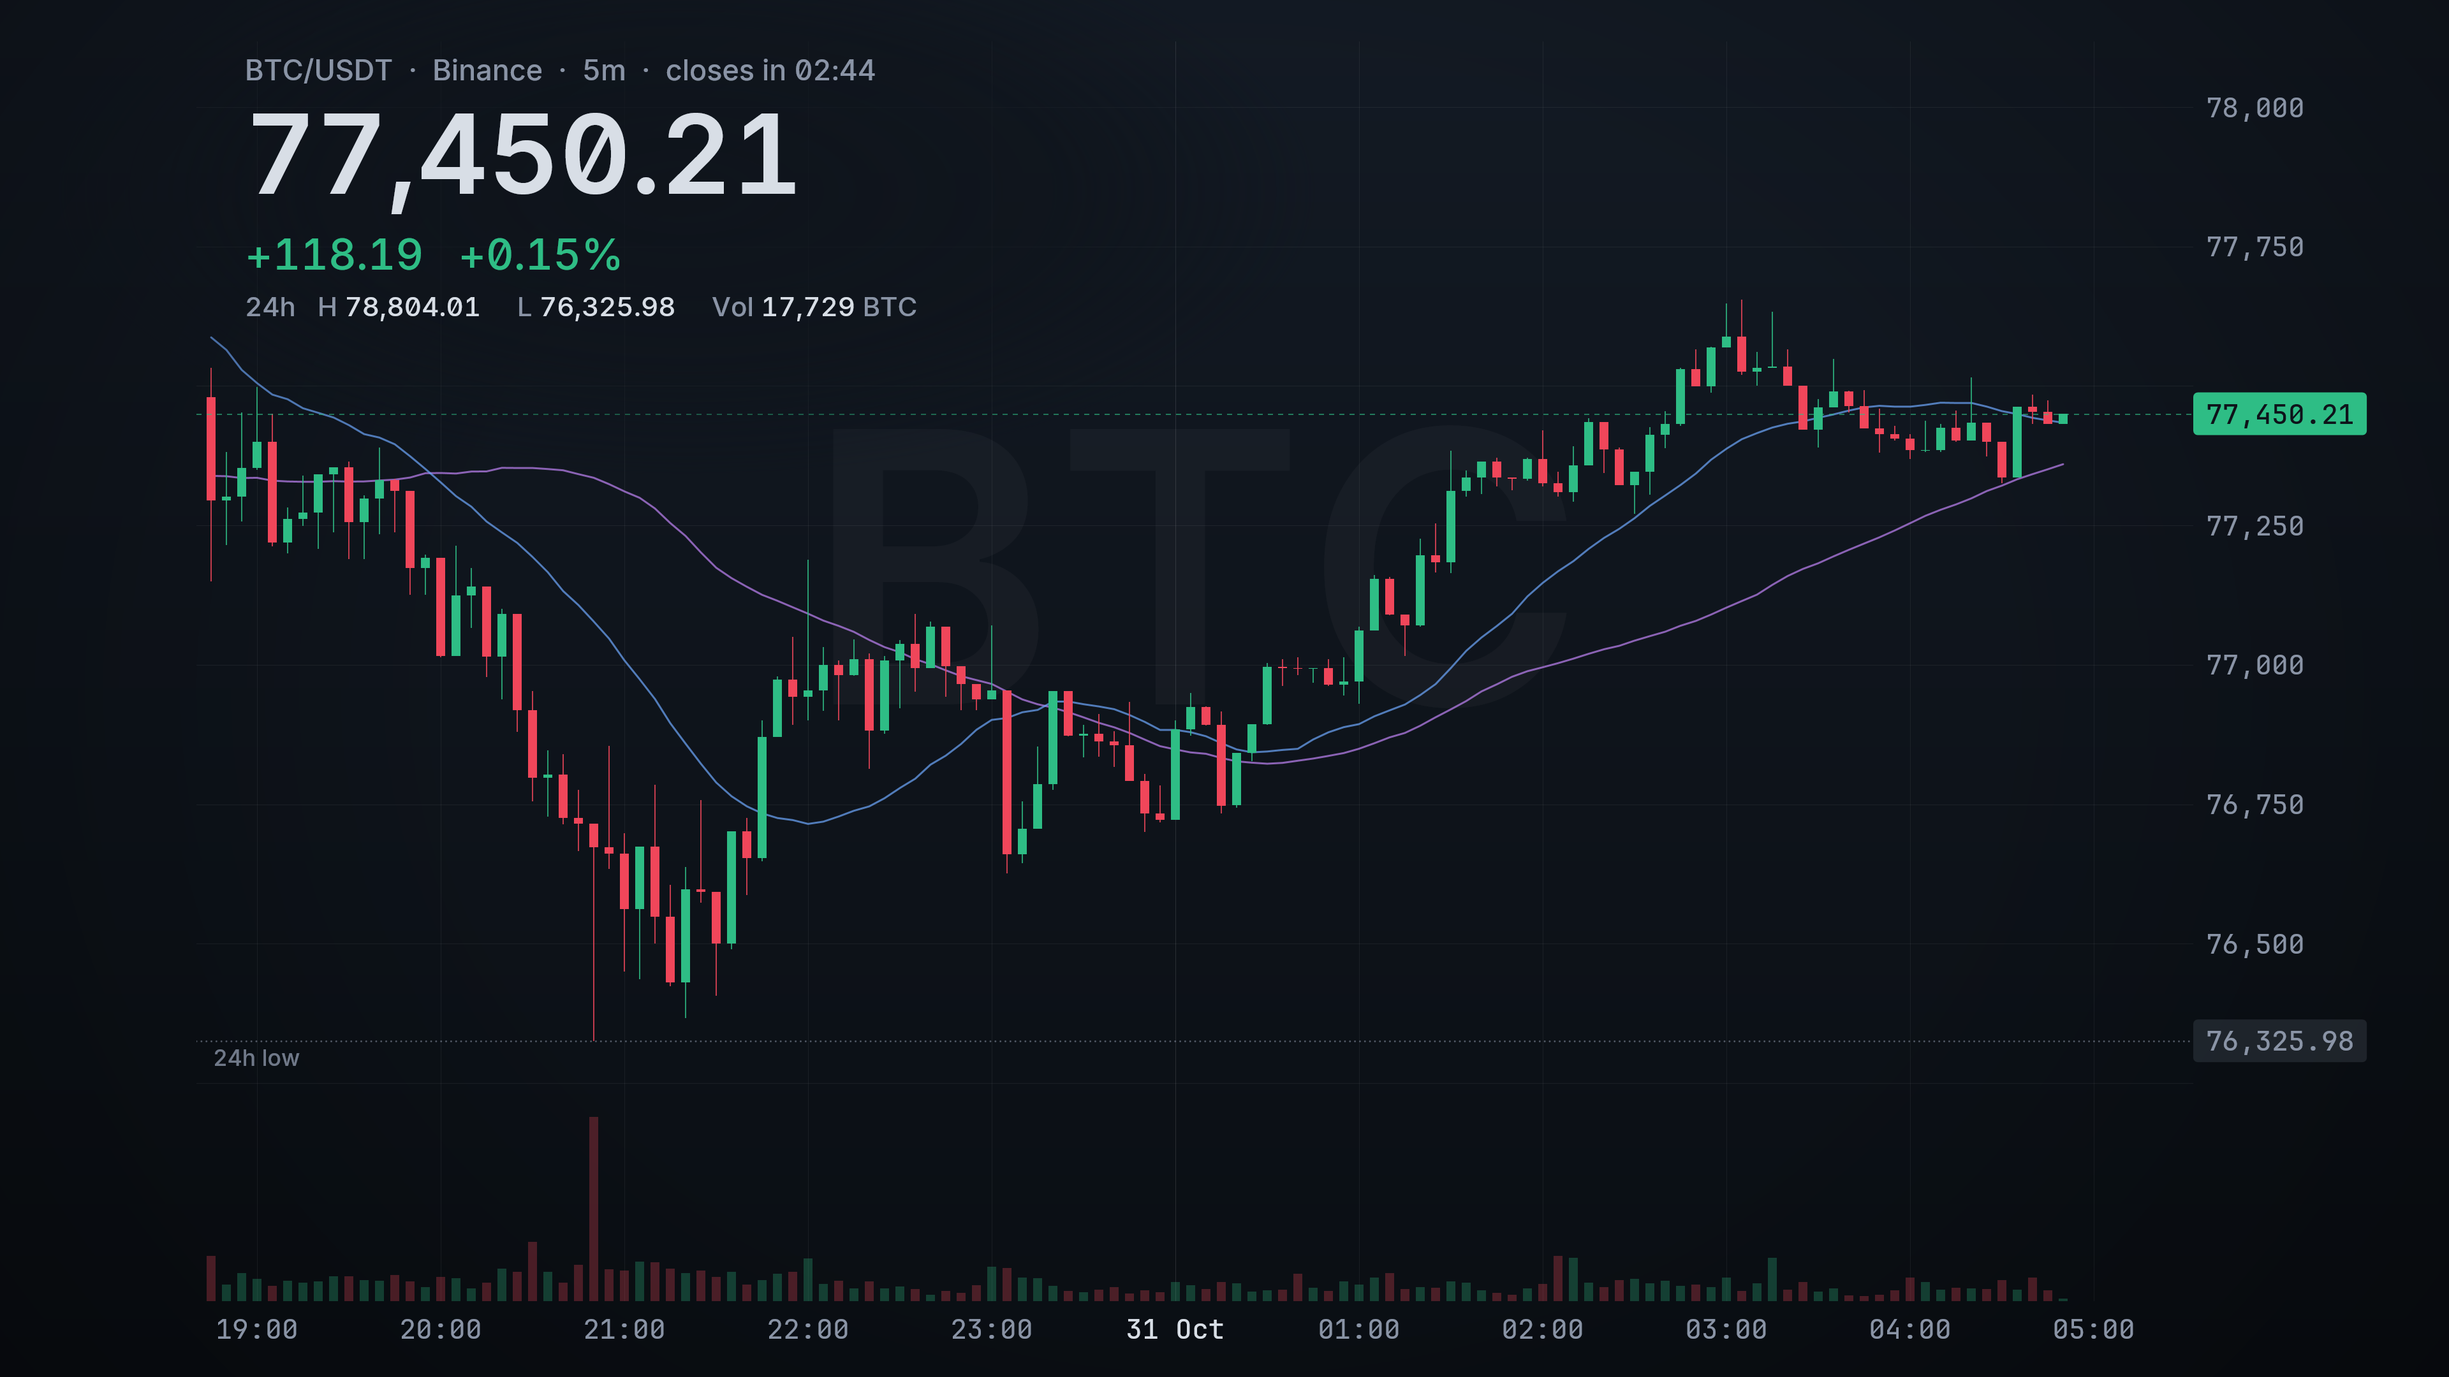
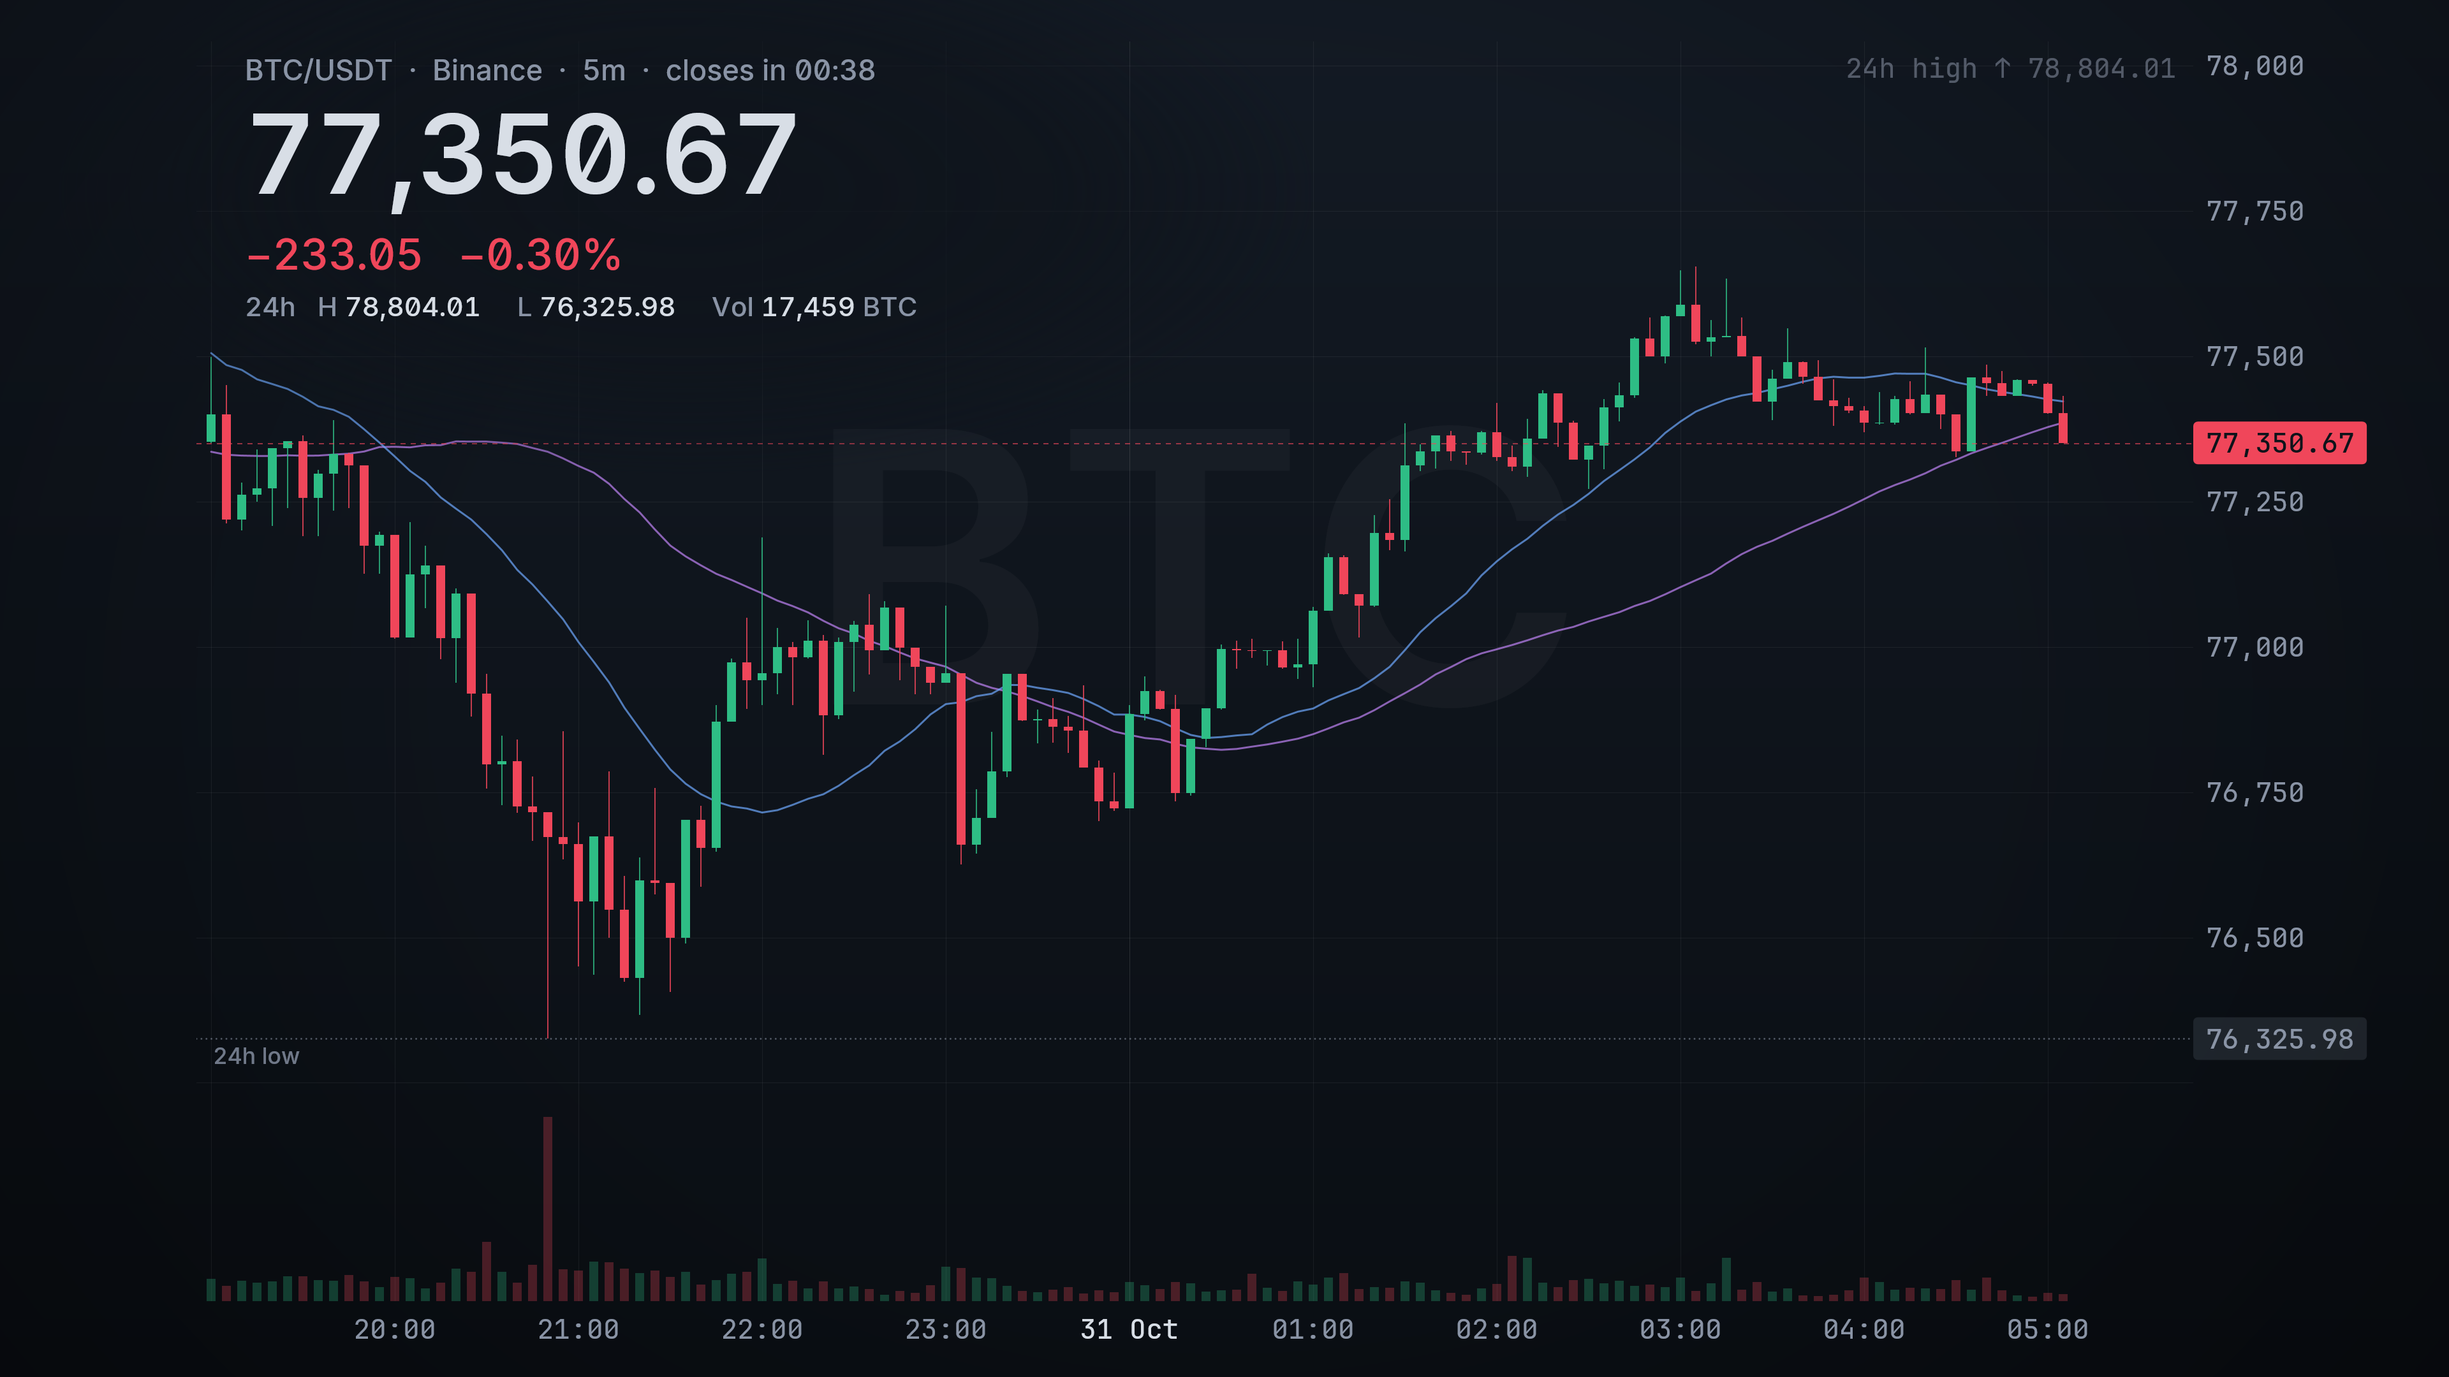
feat: 24h high/low off the price scale as edge markers, the scale is not stretched (D-11) (#4)

diff --git a/src/Chart.Render.D2D/Scene.cs b/src/Chart.Render.D2D/Scene.cs
@@ -1,0 +1,177 @@
+using BitcoinWallpaper.Chart.Core.Candles;
+using BitcoinWallpaper.Chart.Core.Indicators;
+using BitcoinWallpaper.Chart.Core.Layout;
+
+namespace BitcoinWallpaper.Chart.Render.D2D;
+
+public enum DayExtreme
+{
+    High,
+    Low,
+}
+
+/// <summary>A 24h high or low beyond the visible price range, shown as a text marker at the plot's top (high) or
+/// bottom (low) edge instead of a dotted line (D-11). Bounds are in physical px.</summary>
+public sealed record DayRangeMarker(DayExtreme Extreme, decimal Price, string Text, RectPx Bounds);
+
+public static class DayRangeMarkers
+{
+    /// <summary>The edge markers of a frame: one for each 24h extreme outside the visible price range, none for an
+    /// extreme the scale shows (that one is drawn as a dotted line). The price scale is never stretched for them.</summary>
+    public static IReadOnlyList<DayRangeMarker> For(ChartFrame frame) => new Scene(frame).EdgeMarkers;
+}
+
+/// <summary>What a frame derives to, computed from the frame alone.</summary>
+internal sealed class Scene
+{
+    private static readonly TimeSpan Interval = TimeSpan.FromMinutes(5);
+
+    public Scene(ChartFrame frame)
+    {
+        ArgumentNullException.ThrowIfNull(frame);
+        Frame = frame;
+        Layout = frame.Layout;
+        Candles = frame.Candles;
+        Last = Candles.Count > 0 ? Candles[^1] : null;
+        Ma20 = MovingAverage.Simple(Candles, 20);
+        Ma50 = MovingAverage.Simple(Candles, 50);
+        DayHighLow = frame.Ticker is { } ticker
+            ? DayStats.HighLowFromTicker(ticker)
+            : Candles.Count > 0 ? DayStats.HighLowFromCandles(Candles, frame.Now) : null;
+
+        Scale = PriceScale.For(Layout, Candles, [Ma20, Ma50]);
+        (PriceStep, PriceLevels) = Ticks.Prices(Scale, Layout.Text.AxisLabelPx * 4.5);
+        TimeTicks = TimeTicksFor(frame);
+        EdgeMarkers = EdgeMarkersFor();
+
+        if (Last is { } last)
+        {
+            var close = last.IsClosed ? NextBoundary(frame.Now) : last.OpenTime + Interval;
+            Countdown = CloseCountdown.Text(close, frame.Now);
+        }
+    }
+
+    public ChartFrame Frame { get; }
+
+    public ChartLayout Layout { get; }
+
+    public IReadOnlyList<Candle> Candles { get; }
+
+    public Candle? Last { get; }
+
+    /// <summary>The base asset of the pair ("BTC" of "BTC/USDT"): the watermark.</summary>
+    public string Base => Frame.Pair.Split('/')[0];
+
+    public IReadOnlyList<decimal?> Ma20 { get; }
+
+    public IReadOnlyList<decimal?> Ma50 { get; }
+
+    public HighLow? DayHighLow { get; }
+
+    public PriceScale Scale { get; }
+
+    public double PriceStep { get; }
+
+    public IReadOnlyList<double> PriceLevels { get; }
+
+    public IReadOnlyList<TimeTick> TimeTicks { get; }
+
+    public IReadOnlyList<DayRangeMarker> EdgeMarkers { get; }
+
+    public string? Countdown { get; }
+
+    /// <summary>JetBrains Mono advances every glyph by 0.6 em, so a marker's width is known without DirectWrite.</summary>
+    public const double MonoAdvance = 0.6;
+
+    /// <summary>JetBrains Mono's line height in em (ascent 1.02 + descent 0.3).</summary>
+    public const double MonoLineHeight = 1.32;
+
+    public double MarkerSize => Layout.Text.AxisLabelPx;
+
+    /// <summary>Whether the 24h extreme lies on the visible price scale (and is drawn as a dotted line).</summary>
+    public bool OnScale(decimal price)
+    {
+        var y = Scale.Y(price);
+        return y >= Layout.Plot.Y && y <= Layout.Plot.Bottom;
+    }
+
+    private List<DayRangeMarker> EdgeMarkersFor()
+    {
+        var markers = new List<DayRangeMarker>();
+        if (DayHighLow is not { } hl || Candles.Count == 0)
+        {
+            return markers;
+        }
+
+        var plot = Layout.Plot;
+        var size = MarkerSize;
+        var pad = 0.6 * size;
+        var height = Math.Ceiling(MonoLineHeight * size);
+        foreach (var (extreme, price, text) in new[]
+                 {
+                     (DayExtreme.High, hl.High, $"24h high ↑ {ChartText.Price(hl.High)}"),
+                     (DayExtreme.Low, hl.Low, $"24h low ↓ {ChartText.Price(hl.Low)}"),
+                 })
+        {
+            if (OnScale(price))
+            {
+                continue;
+            }
+
+            var width = Math.Ceiling(text.Length * MonoAdvance * size);
+            var y = extreme == DayExtreme.High ? plot.Y + (0.5 * pad) : plot.Bottom - (0.5 * pad) - height;
+            var bounds = new RectPx(plot.X + pad, y, width, height);
+            if (Intersects(bounds, Layout.Headline))
+            {
+                // The headline holds that corner (16:9: top-left); the marker goes to the other side.
+                bounds = bounds with { X = plot.Right - pad - width };
+            }
+
+            markers.Add(new DayRangeMarker(extreme, price, text, bounds));
+        }
+
+        return markers;
+    }
+
+    private static bool Intersects(RectPx a, RectPx b) =>
+        a.X < b.Right && b.X < a.Right && a.Y < b.Bottom && b.Y < a.Bottom;
+
+    private static DateTimeOffset NextBoundary(DateTimeOffset now)
+    {
+        var ticks = now.UtcTicks - (now.UtcTicks % Interval.Ticks);
+        return new DateTimeOffset(ticks, TimeSpan.Zero) + Interval;
+    }
+
+    // A tick on every candle (and every future slot right of the newest) whose local time is a whole interval.
+    private static List<TimeTick> TimeTicksFor(ChartFrame frame)
+    {
+        var l = frame.Layout;
+        var ticks = new List<TimeTick>();
+        if (frame.Candles.Count == 0)
+        {
+            return ticks;
+        }
+
+        var minutes = D2D.Ticks.TimeIntervalMinutes(l.CandlePitchPx, 6.6 * l.Text.AxisLabelPx);
+        var last = frame.Candles[^1].OpenTime;
+        for (var i = l.FirstDrawnIndex; i < frame.Candles.Count + l.RightOffsetBars; i++)
+        {
+            var open = i < frame.Candles.Count ? frame.Candles[i].OpenTime : last + ((i - frame.Candles.Count + 1) * Interval);
+            var local = TimeZoneInfo.ConvertTime(open, frame.TimeZone);
+            var minuteOfDay = (local.Hour * 60) + local.Minute;
+            if (minuteOfDay % minutes == 0)
+            {
+                ticks.Add(new TimeTick(l.CandleCenterX(i), local, minuteOfDay == 0));
+            }
+        }
+
+        return ticks;
+    }
+}
+
+internal readonly record struct TimeTick(double X, DateTimeOffset Local, bool IsDay);
+
+internal static class ChartText
+{
+    public static string Price(decimal price) => price.ToString("#,##0.00", System.Globalization.CultureInfo.InvariantCulture);
+}

diff --git a/src/Chart.Render.D2D/ChartRenderer.cs b/src/Chart.Render.D2D/ChartRenderer.cs
@@ -201,12 +201,12 @@ public sealed class ChartRenderer : IDisposable
         target.AntialiasMode = AntialiasMode.PerPrimitive;
         foreach (var (price, name, above) in new[] { (hl.High, "24h high", true), (hl.Low, "24h low", false) })
         {
-            var y = s.Scale.Y(price);
-            if (y < plot.Y || y > plot.Bottom)
+            if (!s.OnScale(price))
             {
                 continue;
             }
 
+            var y = s.Scale.Y(price);
             var yy = Snap(y) + 0.5f;
             target.DrawLine(new Vector2((float)plot.X, yy), new Vector2((float)plot.Right, yy), paint.DayLine, width, dots);
 
@@ -223,6 +223,13 @@ public sealed class ChartRenderer : IDisposable
             }
 
             target.DrawTextLayout(new Vector2((float)tx, (float)ty), text, paint.DayLabel);
+        }
+
+        // Off the scale (D-11): a marker at the plot's edge, in the axis text style, in the dotted line's colour.
+        foreach (var marker in s.EdgeMarkers)
+        {
+            using var text = TextLayout(marker.Text, ChartFonts.Mono, FontWeight.Regular, s.MarkerSize, marker.Bounds.Width + s.MarkerSize, TextAlignment.Leading);
+            target.DrawTextLayout(new Vector2((float)marker.Bounds.X, (float)marker.Bounds.Y), text, paint.DayLine);
         }
     }
 
@@ -532,95 +539,6 @@ public sealed class ChartRenderer : IDisposable
         a.X < b.Right && b.X < a.Right && a.Y < b.Bottom && b.Y < a.Bottom;
 
     private static Rect ToRect(RectPx r) => new((float)r.X, (float)r.Y, (float)r.Width, (float)r.Height);
-
-    /// <summary>What the frame derives to: computed once per draw from the frame alone.</summary>
-    private sealed class Scene
-    {
-        public Scene(ChartFrame frame)
-        {
-            Frame = frame;
-            Layout = frame.Layout;
-            Candles = frame.Candles;
-            Last = Candles.Count > 0 ? Candles[^1] : null;
-            Ma20 = MovingAverage.Simple(Candles, 20);
-            Ma50 = MovingAverage.Simple(Candles, 50);
-            DayHighLow = frame.Ticker is { } ticker
-                ? DayStats.HighLowFromTicker(ticker)
-                : Candles.Count > 0 ? DayStats.HighLowFromCandles(Candles, frame.Now) : null;
-            Base = frame.Pair.Split('/')[0];
-
-            var optional = DayHighLow is { } hl ? new[] { hl.High, hl.Low } : [];
-            Scale = PriceScale.For(Layout, Candles, [Ma20, Ma50], optional);
-            (PriceStep, PriceLevels) = Ticks.Prices(Scale, Layout.Text.AxisLabelPx * 4.5);
-            TimeTicks = TimeTicksFor(frame);
-
-            if (Last is { } last)
-            {
-                var close = last.IsClosed ? NextBoundary(frame.Now) : last.OpenTime + Interval;
-                Countdown = CloseCountdown.Text(close, frame.Now);
-            }
-        }
-
-        public ChartFrame Frame { get; }
-
-        public ChartLayout Layout { get; }
-
-        public IReadOnlyList<Candle> Candles { get; }
-
-        public Candle? Last { get; }
-
-        public IReadOnlyList<decimal?> Ma20 { get; }
-
-        public IReadOnlyList<decimal?> Ma50 { get; }
-
-        public HighLow? DayHighLow { get; }
-
-        public string Base { get; }
-
-        public PriceScale Scale { get; }
-
-        public double PriceStep { get; }
-
-        public IReadOnlyList<double> PriceLevels { get; }
-
-        public IReadOnlyList<TimeTick> TimeTicks { get; }
-
-        public string? Countdown { get; }
-
-        private static DateTimeOffset NextBoundary(DateTimeOffset now)
-        {
-            var ticks = now.UtcTicks - (now.UtcTicks % Interval.Ticks);
-            return new DateTimeOffset(ticks, TimeSpan.Zero) + Interval;
-        }
-
-        // A tick on every candle (and every future slot right of the newest) whose local time is a whole interval.
-        private static List<TimeTick> TimeTicksFor(ChartFrame frame)
-        {
-            var l = frame.Layout;
-            var ticks = new List<TimeTick>();
-            if (frame.Candles.Count == 0)
-            {
-                return ticks;
-            }
-
-            var minutes = Ticks.TimeIntervalMinutes(l.CandlePitchPx, 6.6 * l.Text.AxisLabelPx);
-            var last = frame.Candles[^1].OpenTime;
-            for (var i = l.FirstDrawnIndex; i < frame.Candles.Count + l.RightOffsetBars; i++)
-            {
-                var open = i < frame.Candles.Count ? frame.Candles[i].OpenTime : last + ((i - frame.Candles.Count + 1) * Interval);
-                var local = TimeZoneInfo.ConvertTime(open, frame.TimeZone);
-                var minuteOfDay = (local.Hour * 60) + local.Minute;
-                if (minuteOfDay % minutes == 0)
-                {
-                    ticks.Add(new TimeTick(l.CandleCenterX(i), local, minuteOfDay == 0));
-                }
-            }
-
-            return ticks;
-        }
-    }
-
-    private readonly record struct TimeTick(double X, DateTimeOffset Local, bool IsDay);
 
     /// <summary>The brushes of one draw, made on (and only valid for) that target.</summary>
     private sealed class Paint : IDisposable

diff --git a/src/Chart.Render.D2D/Scales.cs b/src/Chart.Render.D2D/Scales.cs
@@ -15,8 +15,7 @@ internal readonly record struct PriceScale(double Top, double Height, double Max
     public static PriceScale For(
         ChartLayout layout,
         IReadOnlyList<Candle> candles,
-        IReadOnlyList<IReadOnlyList<decimal?>> overlays,
-        IEnumerable<decimal> optional)
+        IReadOnlyList<IReadOnlyList<decimal?>> overlays)
     {
         var plot = layout.Plot;
         double hi = double.MinValue, lo = double.MaxValue;
@@ -39,21 +38,8 @@ internal readonly record struct PriceScale(double Top, double Height, double Max
             return new PriceScale(plot.Y, plot.Height, 1, 0);
         }
 
-        // Lines that are near the candles (24h high / low) join the range; far ones are left out.
+        // The 24h high / low never stretch the scale (D-11): off it, they become edge markers.
         var range = Math.Max(hi - lo, Math.Max(hi * 0.001, 1e-6));
-        foreach (var p in optional.Select(p => (double)p))
-        {
-            if (p > hi && p - hi <= 0.3 * range)
-            {
-                hi = p;
-            }
-            else if (p < lo && lo - p <= 0.3 * range)
-            {
-                lo = p;
-            }
-        }
-
-        range = Math.Max(hi - lo, Math.Max(hi * 0.001, 1e-6));
         var max = hi + (0.07 * range);
         var min = lo - (0.07 * range);
 

diff --git a/docs/decisions.md b/docs/decisions.md
@@ -11,3 +11,5 @@ Owner's decisions. Each entry: id, date, decision.
 - **D-7** (2026-10-31) Stack: native C#/.NET 10, Direct2D/DirectWrite on a DirectComposition flip-model swap chain; no browser engine.
 - **D-8** (2026-10-31) 5-minute candles.
 - **D-9** (2026-10-31) Before the live wallpaper is built, the chart is reviewed as static PNG mockups at 5120x1440 and 3840x2160.
+- **D-10** (2026-10-31) Every change on the chart (the forming candle, the new-bar shift, the price change) animates smoothly at the monitor's refresh rate (120 Hz on the desk monitor); nothing is drawn while nothing moves.
+- **D-11** (2026-10-31) A 24h high or low outside the visible price range is shown as an edge marker on the price scale; the scale is not stretched for it.
